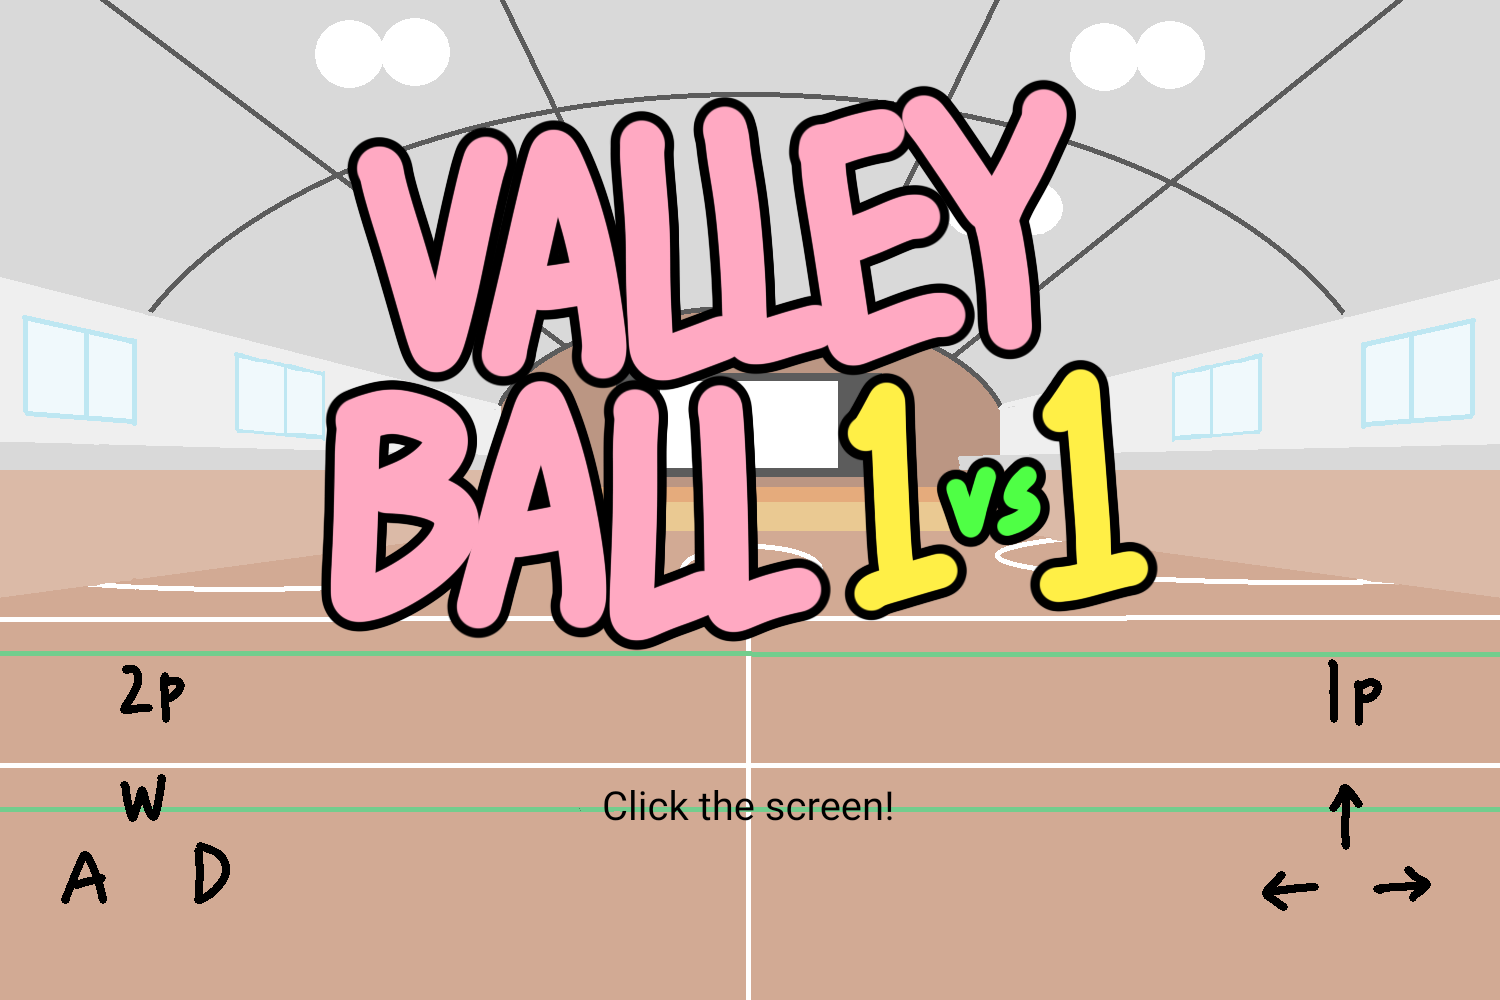
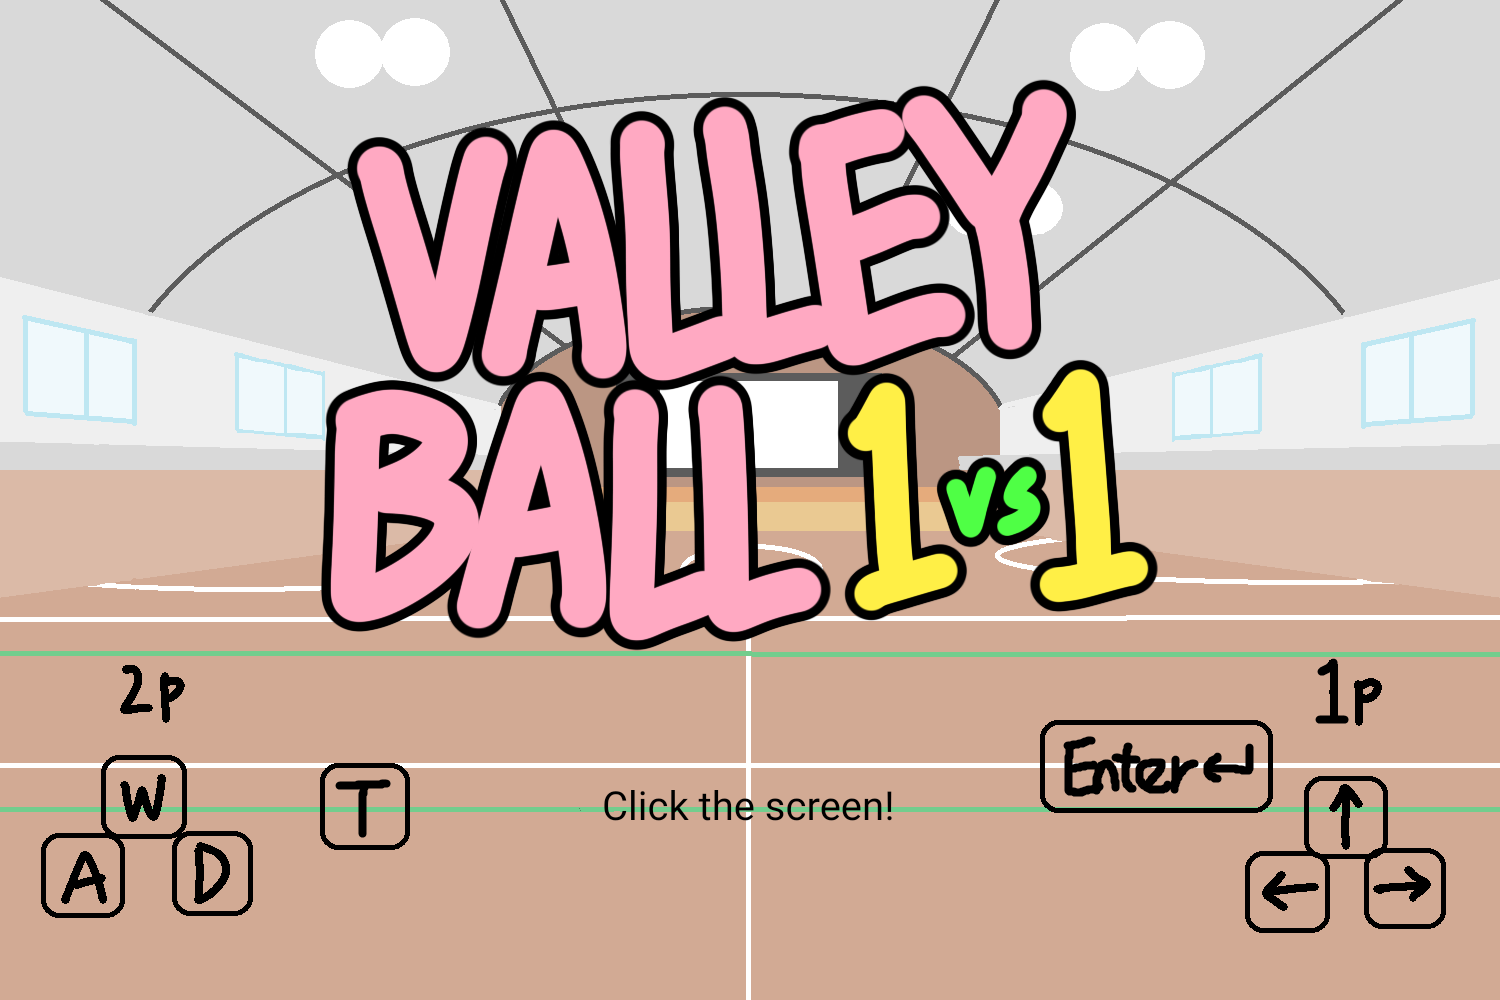
플레이어 스파이크 기능 추가

diff --git a/src/GamePanel.java b/src/GamePanel.java
@@ -7,6 +7,8 @@ import java.awt.event.KeyAdapter;
 import java.awt.event.KeyEvent;
 import java.awt.event.MouseAdapter;
 import java.awt.event.MouseEvent;
+import java.util.Timer;
+import java.util.TimerTask;
 
 import javax.swing.JPanel;
 
@@ -168,14 +170,32 @@ public class GamePanel extends JPanel {
 
 				// 공이 플레이어와 충돌할 경우, 공과 플레이어의 각 좌표의 차를 이용해 충돌한 각도의 방향으로 공이 튀기게 함
 				if(ballRightPlayerDistance <= rightPlayer.width/2 + ball.width/2) {
-					ball.moveX = (ballCenterX - rightPlayerCenterX)/3/7;
-					ball.moveY = (ballCenterY - rightPlayerCenterY)/3/7;
-					ball.gravity = 0;	// 플레이어와 충돌 시 공 중력 초기화
+					if(rightPlayer.isSpike) {
+						ball.moveX = (ballCenterX - rightPlayerCenterX)/3/3;
+						ball.moveY = (ballCenterY - rightPlayerCenterY)/3/11;
+						ball.gravity = 0;	// 플레이어와 충돌 시 공 중력 초기화
+						ball.img = tk.getImage("spiked_ball.png");
+					}
+					else {
+						ball.moveX = (ballCenterX - rightPlayerCenterX)/3/7;
+						ball.moveY = (ballCenterY - rightPlayerCenterY)/3/7;
+						ball.gravity = 0;	// 플레이어와 충돌 시 공 중력 초기화
+						ball.img = tk.getImage("ball.png");
+					}
 				}
 				if(ballLeftPlayerDistance <= leftPlayer.width/2 + ball.width/2) {
-					ball.moveX = (ballCenterX - leftPlayerCenterX)/3/7;
-					ball.moveY = (ballCenterY - leftPlayerCenterY)/3/7;
-					ball.gravity = 0;	// 플레이어와 충돌 시 공 중력 초기화
+					if(leftPlayer.isSpike) {
+						ball.moveX = (ballCenterX - leftPlayerCenterX)/3/3;
+						ball.moveY = (ballCenterY - leftPlayerCenterY)/3/11;
+						ball.gravity = 0;	// 플레이어와 충돌 시 공 중력 초기화
+						ball.img = tk.getImage("spiked_ball.png");
+					}
+					else {
+						ball.moveX = (ballCenterX - leftPlayerCenterX)/3/7;
+						ball.moveY = (ballCenterY - leftPlayerCenterY)/3/7;
+						ball.gravity = 0;	// 플레이어와 충돌 시 공 중력 초기화
+						ball.img = tk.getImage("ball.png");
+					}
 				}
 
 				// 공이 벽과 충돌할 경우
@@ -221,7 +241,7 @@ public class GamePanel extends JPanel {
 				repaint();
 
 				try {
-					Thread.sleep(1, 100000);	// 공의 속도, 해당 시간마다 이동
+					Thread.sleep(1, 200000);	// 공의 속도, 해당 시간마다 이동
 				} catch (InterruptedException e) {
 					e.printStackTrace();
 				}
@@ -267,6 +287,18 @@ public class GamePanel extends JPanel {
 			case KeyEvent.VK_RIGHT :
 				rightKeyRight = true;
 				break;
+			case KeyEvent.VK_ENTER:
+				rightPlayer.isSpike = true;
+				Timer timer = new Timer();
+				TimerTask task = new TimerTask() {
+					@Override
+					public void run() {
+						rightPlayer.isSpike = false;
+						timer.cancel();
+					}
+				};
+				timer.schedule(task, 300);
+				break;
 			}
 			switch (e.getKeyCode()) {	// 왼쪽 플레이어 키 입력
 			case KeyEvent.VK_W :
@@ -277,6 +309,18 @@ public class GamePanel extends JPanel {
 				break;
 			case KeyEvent.VK_D :
 				leftKeyRight = true;
+				break;
+			case KeyEvent.VK_T:
+				leftPlayer.isSpike = true;
+				Timer timer = new Timer();
+				TimerTask task = new TimerTask() {
+					@Override
+					public void run() {
+						leftPlayer.isSpike = false;
+						timer.cancel();
+					}
+				};
+				timer.schedule(task, 300);
 				break;
 			}
 		}

diff --git a/src/Player.java b/src/Player.java
@@ -24,11 +24,10 @@ public class Player {
 	int width;
 	int height;
 
-	int centerX = x + width/2;		// 플레이어의 중심 x 좌표
-	int centerY = y + height/2;		// 플레이어의 중심 y 좌표
-
 	// true이면 점프 중
 	private boolean isJump = false;
+
+	boolean isSpike = false;	// 플레이어가 스파이크를 했는가
 
 	// 플레이어 생성자, 오른쪽 플레이어(1) 왼쪽 플레이어(2)를 매개 변수로 받아 처음 위치 지정
 	public Player(int p) {

diff --git a/src/Ball.java b/src/Ball.java
@@ -22,9 +22,6 @@ public class Ball {
 	int width;
 	int height;
 
-	int centerX = x + width;
-	int centerY = y + height;
-
 	public Ball(Player player) {
 		x = player.x + 5;
 		y = 100;
@@ -44,5 +41,6 @@ public class Ball {
 		moveX = 0;
 		moveY = BALL_UNIT;
 		gravity = 0;
+		img = tk.getImage("ball.png");
 	}
 }
